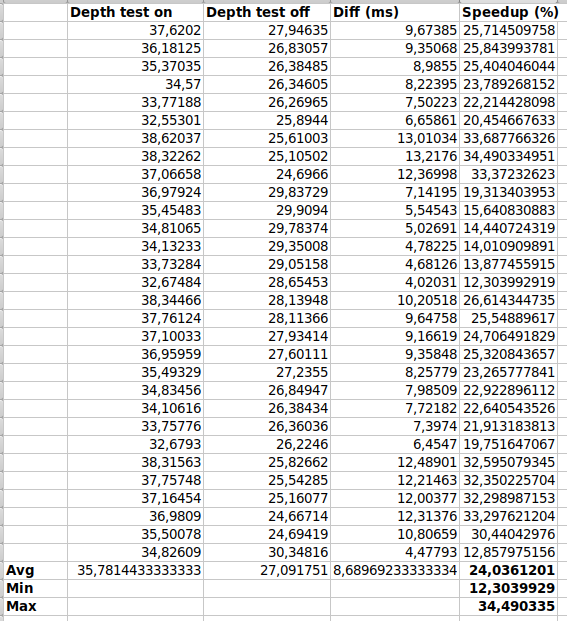
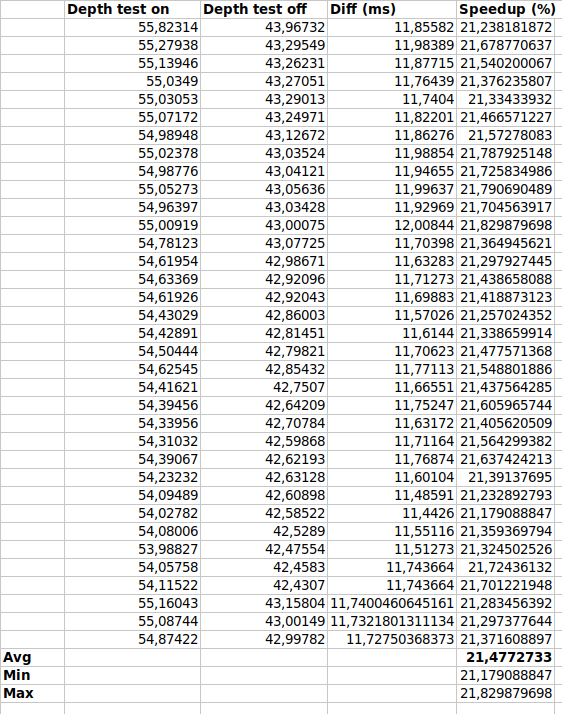
add glFinish and update report

diff --git a/examples/gldemo/gldemo.c b/examples/gldemo/gldemo.c
@@ -169,7 +169,7 @@ int main()
         const char* test_names[] = {"depth test on", "depth test off"};
         const int num_overdraw = 20;
 
-        int test = 0; // toggle this to switch between the two tests
+        int test = 1; // toggle this to switch between the two tests
 
         if (test == 0) {
             glEnable(GL_DEPTH_TEST);
@@ -188,7 +188,7 @@ int main()
         for (int i = 0; i < num_overdraw; i++) {
             render_just_cube();
         }
-        rspq_flush();
+        glFinish();
         uint32_t t_end = TICKS_READ();
         results[test] = TICKS_DISTANCE(t_start, t_end);
         uint32_t took = results[test];

diff --git a/examples/gldemo/readme.md b/examples/gldemo/readme.md
@@ -1,13 +1,13 @@
 # Z-buffer fill test
 
-*01 Oct 2022*
+*02 Oct 2022*
 *Written by tykkiman*
 
 **Question:** How much does not using the Z-buffer speed up triangle drawing on the N64?
 
-**Answer**: Disabling the Z-test and writes gives a **24% speedup**, varying between 12% and 34%.
+**Answer**: Disabling the Z-test and writes gives a **21% speedup** in this test.
 
-This test draws a cube 20 times in a loop with and without Z-testing. Tested with a PAL console, 64drive, average of single runs 31 samples. Speedup means here the formula
+This test draws a cube 20 times in a loop with and without a Z-buffer. Tested with a PAL console, 64drive, average of single runs 36 samples. Code was compiled with `make -j OPT=O3`. Speedup means here the formula
 
     speedup = 100 % * (before - after) / before
 
@@ -23,7 +23,7 @@ uint32_t t_start = TICKS_READ();
 for (int i = 0; i < num_overdraw; i++) {
     render_just_cube();
 }
-rspq_flush();
+glFinish();
 uint32_t t_end = TICKS_READ();
 ```
 
@@ -34,6 +34,7 @@ See [gldemo.c](https://github.com/kannoneer/libdragon/blob/ztester/examples/glde
 
 - The "overdraw" rendering loop may not be close to reality and loop iterations are probably interfering with each other
 - Disabling z-test gives could give some GL-implementation specific speedup not related to triangle rasterization's memory bandwidth use
+- I had only `rspq_flush()` instead of `glFinish()` after the loop earlier so it didn't actually wait for RDP to finish. Now it's fixed.
 
 ## Numbers
 
